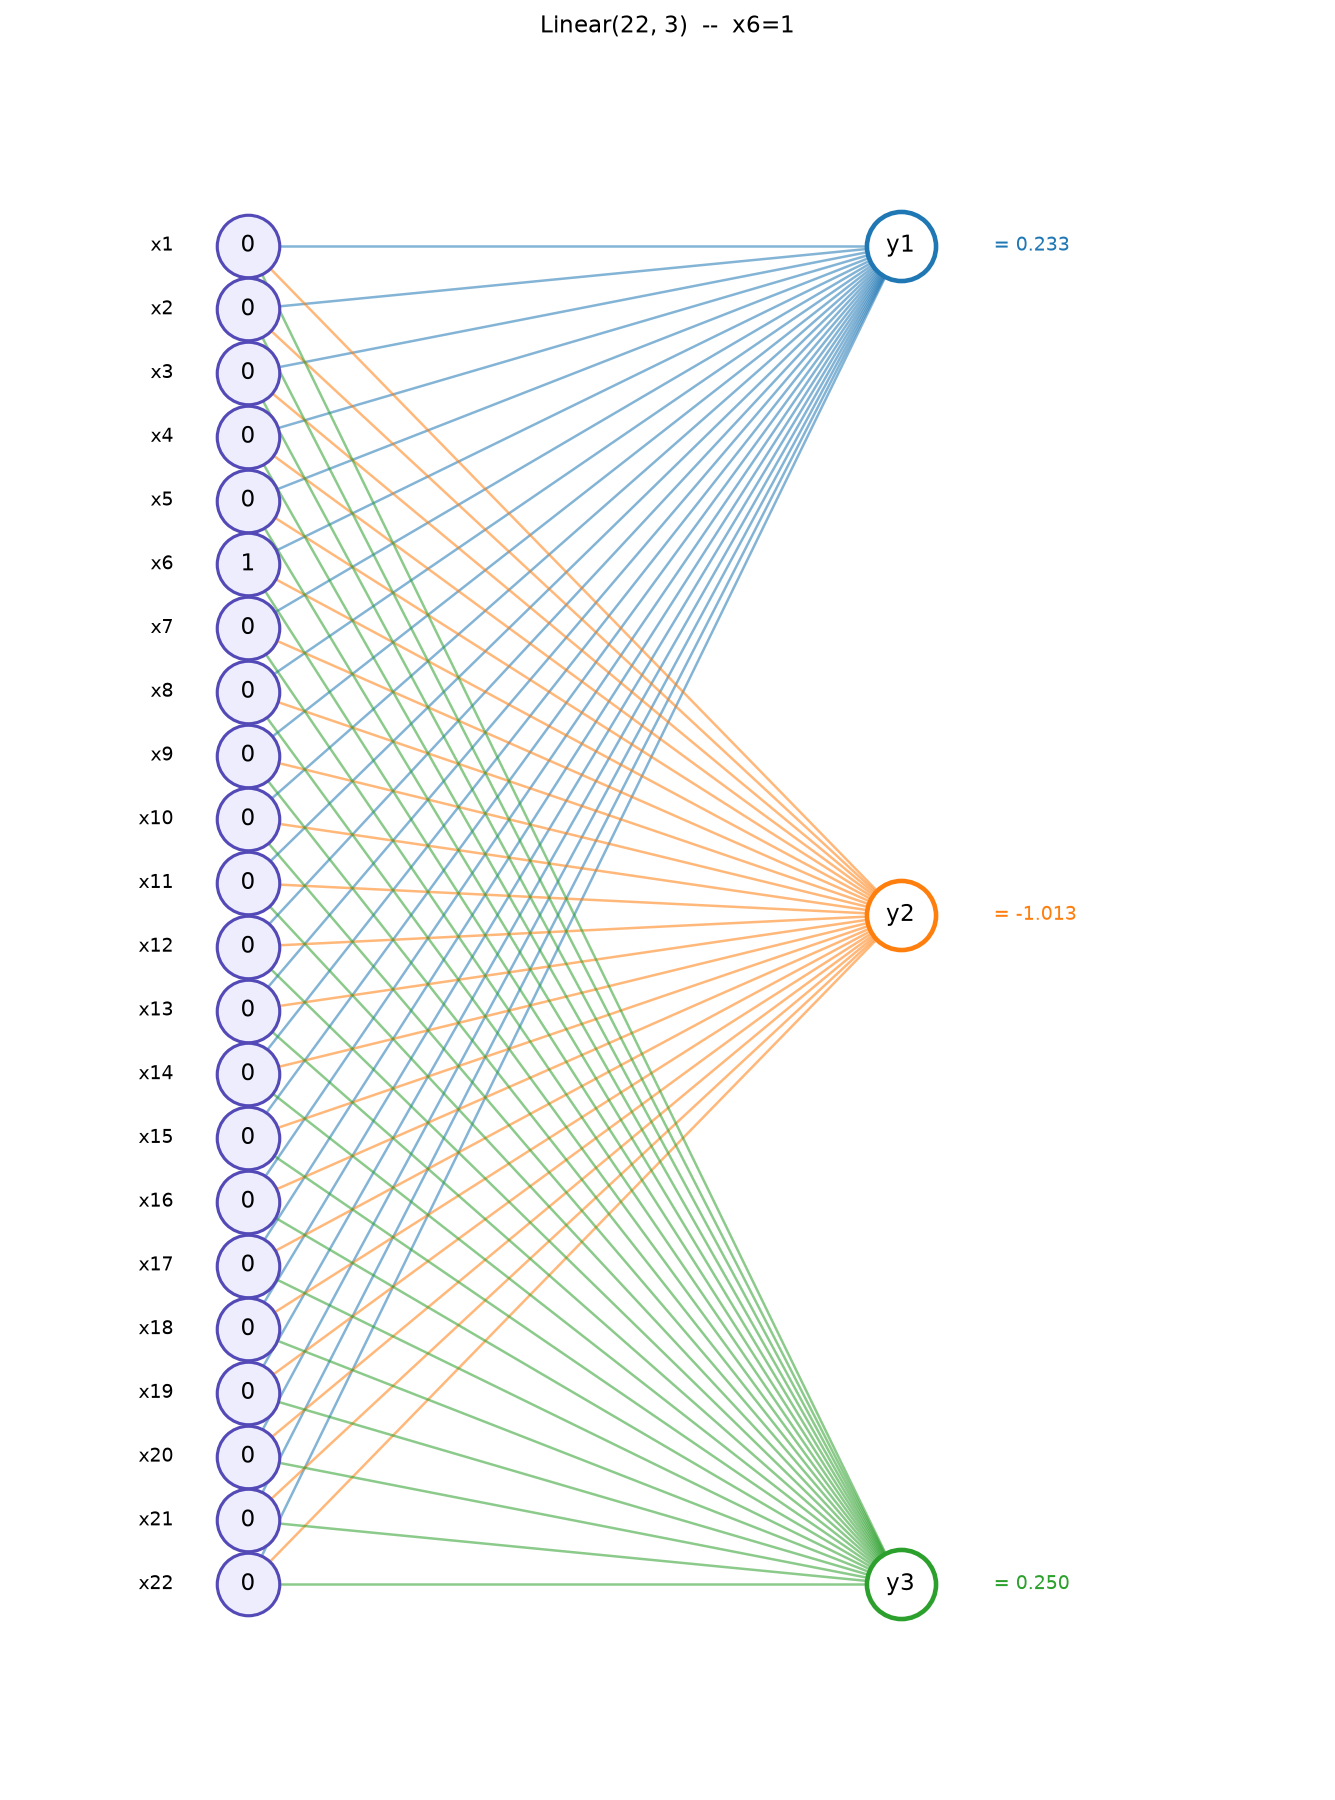
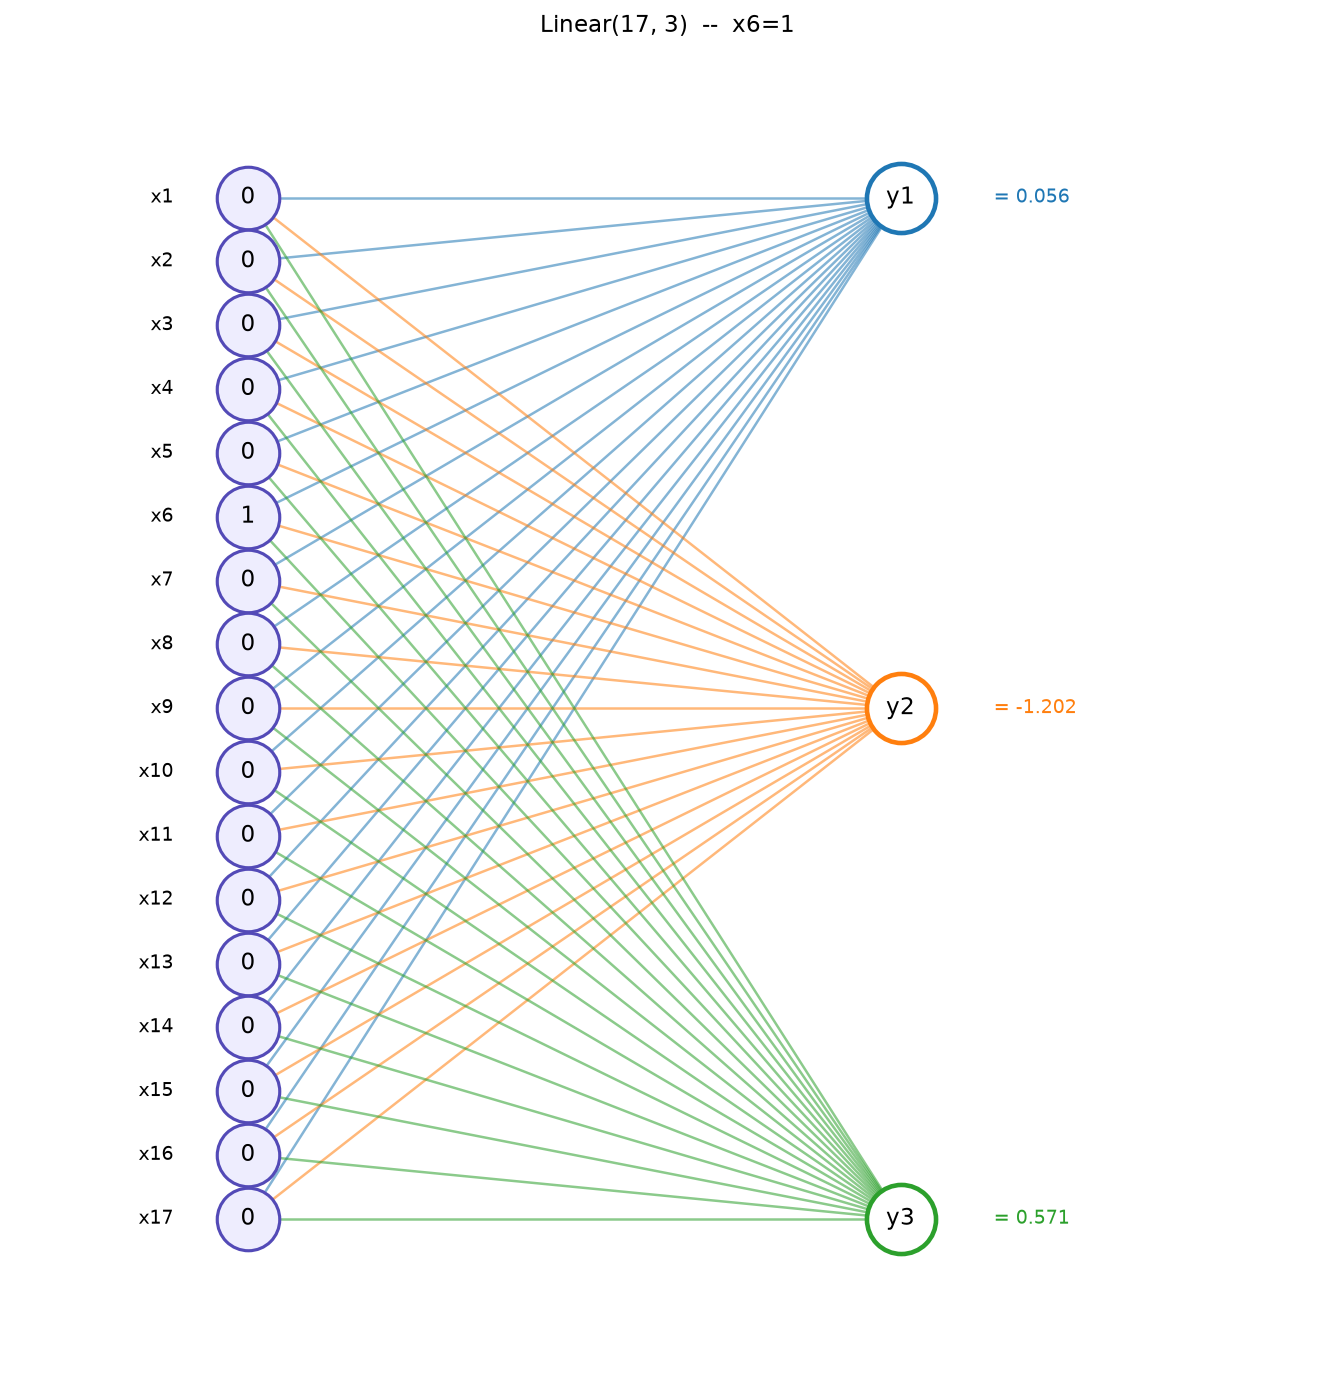
Changed the sentence used and commented some print statements

diff --git a/token_embeddings.py b/token_embeddings.py
@@ -124,6 +124,7 @@ def _spread(n):
 # We want to use the token IDs from this tokenizer and not the weights
 tokenizer = tiktoken.get_encoding("gpt2")
 ids = tokenizer.encode("The luggage that the exhausted tourists forgot to retrieve from the carousel after their flight landed in Rome was lost.")
+ids = tokenizer.encode("Cats that scare mice chase birds, but mice scare elephants while cats don't.")
 print(ids)
 print(tokenizer.decode(ids))
 print("Length of input Ids", len(ids))
@@ -152,10 +153,10 @@ print(f"ids[1] is {ids[1]} and word is {tokenizer.decode([ids[1]])}")
 vector = model.wte.weight[token_id]
 print(vector.shape)
 print("\n Actual Embeddings")
-print(vector)
+#print(vector)
 
 linear_weights = torch.nn.Linear(vocab_size, embedding_training_dimensions)
-print("Linear Layer", linear_weights.weight)
+#print("Linear Layer", linear_weights.weight)
 print(linear_weights.weight.shape)
 W = linear_weights.weight        # shape (3, 22)
 b = linear_weights.bias          # shape (3,)
